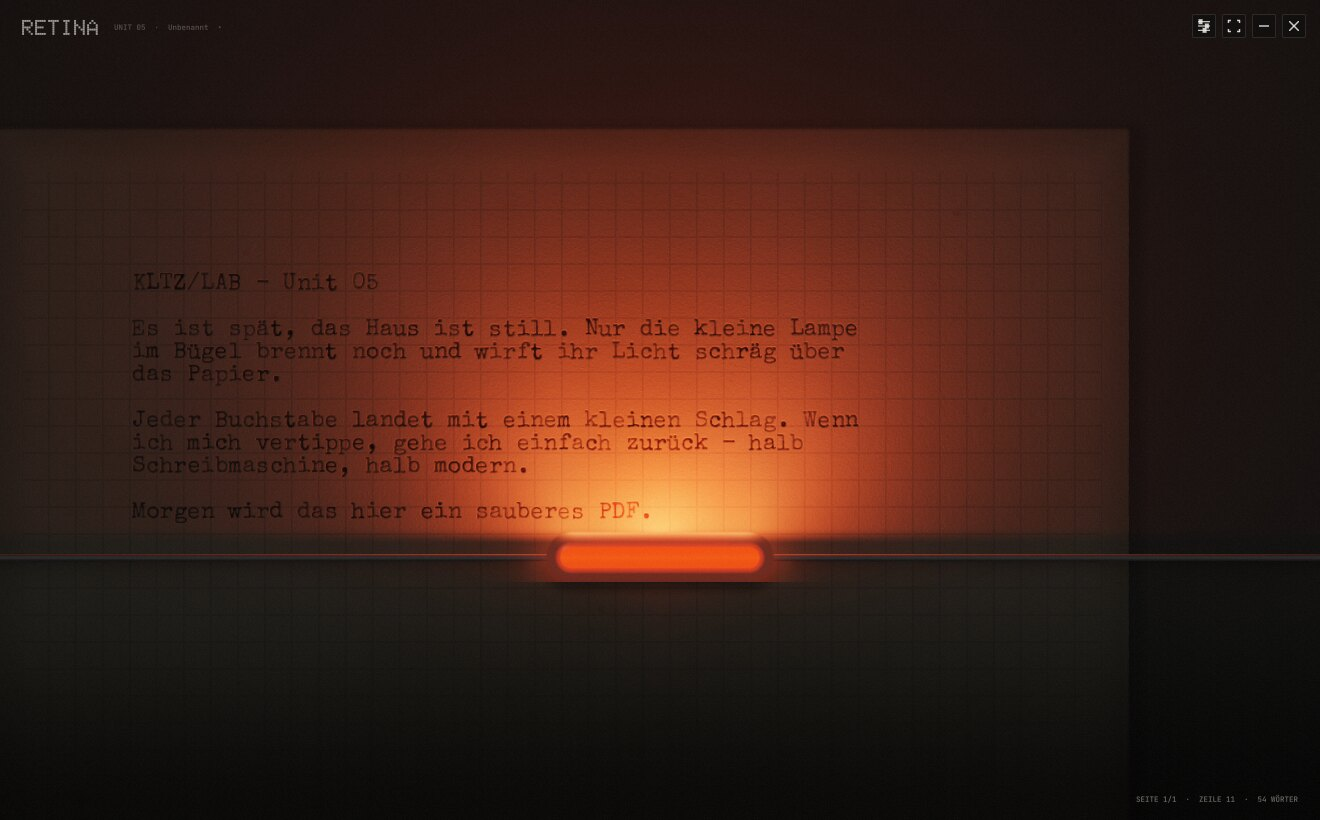
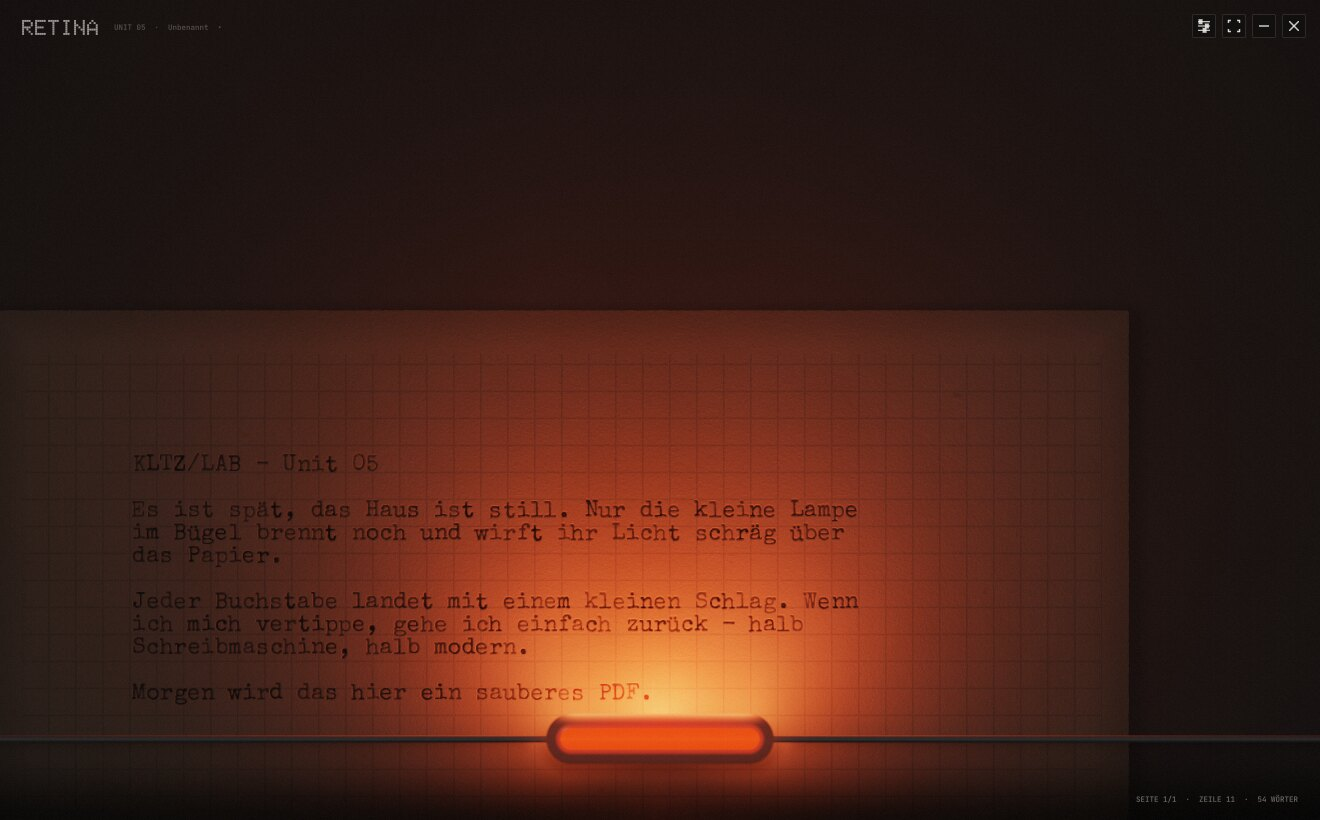
RETINA 0.9.2: settings clickable, lamp at bottom edge, press/release sounds, no key repeat
Claude-Session: https://claude.ai/code/session_01Jzr5w1iMniMsk85TjXu2Vu

diff --git a/index.html b/index.html
@@ -425,8 +425,8 @@ footer p{margin:0 0 6px;max-width:80ch}
       <div class="unit-body">
         <aside class="spec">
           <table>
-            <tr><th>Version</th><td>0.9.1 Beta</td></tr>
-            <tr><th>Größe</th><td>1,1 MB</td></tr>
+            <tr><th>Version</th><td>0.9.2 Beta</td></tr>
+            <tr><th>Größe</th><td>1,2 MB</td></tr>
             <tr><th>System</th><td>Windows 10/11 x64</td></tr>
             <tr><th>Engine</th><td>Nativ C++, DirectX 11</td></tr>
             <tr><th>Seite</th><td>A4, Pica 10 cpi, 62 × 58</td></tr>
@@ -484,7 +484,7 @@ footer p{margin:0 0 6px;max-width:80ch}
         <div class="note"><h3><span class="sq"></span>LARYNX</h3><p>Leitet deine bearbeitete Stimme an Discord, OBS &amp; Co. weiter. In der App führt „Discord einrichten“ durch die Einstellung, mit „Bypass“ hörst du jederzeit den Vorher-Nachher-Vergleich. Ersetzt SixtyVox: Die alte Version wird beim Installieren entfernt, deine Presets ziehen mit um.</p></div>
         <div class="note"><h3><span class="sq"></span>DIGEST</h3><p>Startet mit deinem Downloads-Ordner und zeigt erst nur eine Vorschau. Doppelte Dateien wandern in einen Quarantäne-Ordner, nicht in den Papierkorb. Alles, was DIGEST verschiebt, kannst du unter VERLAUF wieder an den alten Platz holen.</p></div>
         <div class="note"><h3><span class="sq"></span>SUTURE</h3><p>Zieh deine Aufnahmen ins Fenster, eine Datei pro Person oder alles in einer. SUTURE fasst die Originale nie an, es schreibt nur neue Dateien. Der MP3-Encoder LAME liegt als eigene DLL bei.</p></div>
-        <div class="note"><h3><span class="sq"></span>RETINA</h3><p>Die Anschlag-Geräusche erzeugt RETINA selbst. Wenn du eigene Sounds hast, leg sie als WAV in einen Ordner (key…, space…, return…, bell…, backspace…) und wähle ihn in den Einstellungen unter TON. Die Dateien bleiben bei dir, sie werden nicht mitverteilt.</p></div>
+        <div class="note"><h3><span class="sq"></span>RETINA</h3><p>Eigene Tasten-Sounds gehen auch: WAV-Dateien mit press… und release… im Namen (dazu return…, bell…) in einen Ordner legen und unter TON auswählen. Die Dateien bleiben bei dir, sie werden nicht mitverteilt.</p></div>
       </div>
     </div>
   </section>
@@ -494,7 +494,7 @@ footer p{margin:0 0 6px;max-width:80ch}
   <div class="wrap">
     <div>
       <p>KLTZ/LAB · Tools für Windows · Kostenlos</p>
-      <p>Drittanbieter: LibreHardwareMonitor (MPL-2.0), PawnIO, Electron (MIT) in VITALS · RNNoise (BSD-3-Clause), Dear ImGui (MIT), Schriften JetBrains Mono und Doto (SIL OFL 1.1) in LARYNX, DIGEST, SUTURE und RETINA · DejaVu-Pfeile (Bitstream-Vera-Lizenz) in DIGEST, SUTURE und RETINA · LAME (LGPL) in SUTURE · dr_libs (Public Domain/MIT-0) in SUTURE und RETINA · Schreibmaschinen-Schriften Special Elite (Apache 2.0) und Courier Prime (SIL OFL 1.1) in RETINA.</p>
+      <p>Drittanbieter: LibreHardwareMonitor (MPL-2.0), PawnIO, Electron (MIT) in VITALS · RNNoise (BSD-3-Clause), Dear ImGui (MIT), Schriften JetBrains Mono und Doto (SIL OFL 1.1) in LARYNX, DIGEST, SUTURE und RETINA · DejaVu-Pfeile (Bitstream-Vera-Lizenz) in DIGEST, SUTURE und RETINA · LAME (LGPL) in SUTURE · dr_libs (Public Domain/MIT-0) in SUTURE und RETINA · Schreibmaschinen-Schriften Special Elite (Apache 2.0) und Courier Prime (SIL OFL 1.1) sowie Tasten-Sounds von Mixkit (Mixkit-Lizenz) in RETINA.</p>
     </div>
     <div class="label" id="year"></div>
   </div>
@@ -516,8 +516,8 @@ const TOOLS = [
[1 lines of base64/hex data omitted]
   { id: 'suture', no: '04', name: 'SUTURE', what: 'Podcast-Schnitt', status: 'beta', version: '0.9.2 Beta', tag: 'suture-v0.9.2',
[1 lines of base64/hex data omitted]
-  { id: 'retina', no: '05', name: 'RETINA', what: 'Schreibmaschine', status: 'beta', version: '0.9.1 Beta', tag: 'retina-v0.9.1',
[1 lines of base64/hex data omitted]
+  { id: 'retina', no: '05', name: 'RETINA', what: 'Schreibmaschine', status: 'beta', version: '0.9.2 Beta', tag: 'retina-v0.9.2',
[1 lines of base64/hex data omitted]
   { id: null, no: '06', name: 'NÄCHSTES TOOL', what: 'In Arbeit', status: 'wip' },
 ];
 
@@ -633,14 +633,14 @@ $('#rViews').addEventListener('click', e => { const b = e.target.closest('button
   document.querySelectorAll('#rViews button').forEach(x => x.setAttribute('aria-pressed', x === b)); });
 for (const v of Object.keys(R_VIEW)) { const i = new Image(); i.src = `img/retina-${v}.jpg`; }
 $('#retinaSteps').innerHTML = [
-  'Tippen: jede Taste mit eigenem Anschlag, Leertaste, Zeilenschaltung und Glocke kurz vor dem Rand.',
+  'Tippen: Anschlag beim Drücken, Klack beim Loslassen. Gedrückt halten tippt nur einmal, wie bei einer echten Maschine.',
   'Der Wagen fährt: Der Text wandert beim Schreiben nach links, wie bei einer echten Maschine.',
   'Halb modern: Backspace, Entf, Pfeiltasten, Markieren, Kopieren und Strg + Z gehen trotzdem.',
   'Licht: Farbe frei wählbar, vier Helligkeiten, Raum dunkel bis hell. Die Papierstruktur reagiert darauf.',
   'Papier: glatt, Baumwolle, Recycling oder alt, dazu blanko, liniert oder kariert.',
   'Speichern als TXT. RETINA sichert nebenbei automatisch, nichts geht verloren.',
   'PDF: nur Schrift auf weißem A4, ohne Textur und ohne Licht. Strg + P.',
-  'Strg + Mausrad zoomt, F11 = Vollbild, Strg + , öffnet die Einstellungen.',
+  'Glocke kurz vor dem Rand, Wagenrücklauf bei Enter. Strg + Mausrad zoomt, F11 = Vollbild.',
 ].map((r, i) => `<li><span>${String(i + 1).padStart(2, '0')}</span>${r}</li>`).join('');
 
 // LARYNX chain — names, order and texts taken from the app
